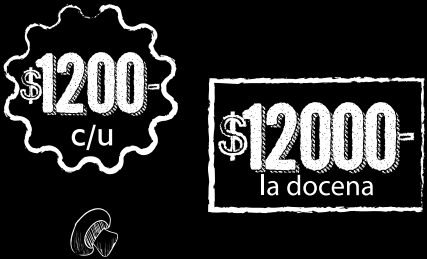
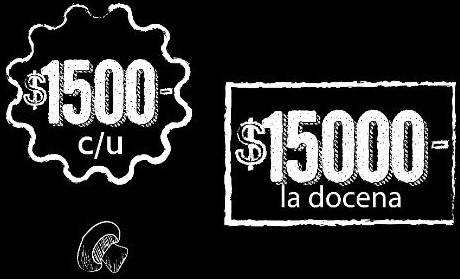
actu junio

diff --git a/src/data/Pizzas-data.jsx b/src/data/Pizzas-data.jsx
@@ -1,33 +1,33 @@
 
 const productos = [
-    { id: 1, nombre: 'Mozzarella', descripcion: 'Salsa de tomate y mozzarella', precio: 7500 },
+    { id: 1, nombre: 'Mozzarella', descripcion: 'Salsa de tomate y mozzarella', precio: 8500 },
     { id: 2, nombre: 'Doble Mozza', descripcion: 'Salsa de tomate y doble mozzarella',precio: 
-    10500 },
-    { id: 3, nombre: 'Mozza c/Jamón', descripcion: 'Salsa de tomate, mozzarella y jamón',precio: 9500 },
-    { id: 4, nombre: 'Mozza c/anchoas', descripcion: 'Salsa de tomate, mozzarella y anchoas', precio: 11500 },
-    { id: 5, nombre: 'Jamón y Morrón', descripcion: 'Salsa de tomate, mozzarella , jamón y morrón',precio: 12500 },
-    { id: 6, nombre: 'Napolitana', descripcion: 'Salsa de tomate, mozzarella y tomate natural',precio: 9500 },
-    { id: 7, nombre: 'Napolitana y Jamón', descripcion: 'Salsa de tomate, mozzarella, tomate natural y jamón', precio: 12500 },
-    { id: 8, nombre: 'Fugaza c/Queso', descripcion: 'cebolla y mozzarella',precio: 9000 },
-    { id: 9, nombre: 'Fugaza rellena', descripcion: 'cebolla, mozzarella y jamón',precio: 15000 },
-    { id: 10, nombre: 'Salchicha', descripcion: 'Salsa de tomate, mozzarella y salchicha', precio: 10500 },
-    { id: 11, nombre: 'Palmitos', descripcion: 'Salsa de tomate, mozzarella y palmito',precio: 13500 },
-    { id: 12, nombre: 'Palmitos c/Jamón', descripcion: 'Salsa de tomate, mozzarella, palmito y jamón',precio: 14500 },
-    { id: 13, nombre: 'Champiñones', descripcion: 'Salsa de tomate, mozzarella y champiñon',precio: 14500 },
-    { id: 14, nombre: 'Hawaiana', descripcion: 'Salsa de tomate, mozzarella, jamón y ananá ',precio: 15000 },
-    { id: 15, nombre: 'Piamontesa', descripcion: 'Salsa de tomate, mozzarella, calabresa, champiñones y panceta',precio: 17500 },
-    { id: 16, nombre: 'Primavera', descripcion: 'Salsa de tomate, mozzarella, tomate, huevo y jamón',precio: 14500 },
-    { id: 17, nombre: 'Huevo', descripcion: 'Salsa de tomate, mozzarella y huevo',precio: 9500 },
-    { id: 18, nombre: 'Huevo c/Jamón', descripcion: 'Salsa de tomate, mozzarella, jamón y huevo',precio: 12500 },
-    { id: 19, nombre: 'Provolone', descripcion: 'Salsa de tomate, mozzarella y provolone',precio: 10500 },
-    { id: 20, nombre: 'Roquefort', descripcion: 'Salsa de tomate, mozzarella y roquefort',precio: 10500 },
-    { id: 21, nombre: 'Calabresa', descripcion: 'Salsa de tomate, mozzarella y calabresa',precio: 10500 },
-    { id: 22, nombre: 'Calabresa Especial', descripcion: 'Salsa de tomate, mozzarella, calabresa y morrón',precio: 13500 },
-    { id: 23, nombre: 'Rúcula y Parmesano', descripcion: 'Salsa de tomate, mozzarella, rúcula natural y parmesano',precio: 12500 },
-    { id: 24, nombre: 'Rúcula y Provolone', descripcion: 'Salsa de tomate, mozzarella, rúcula natural  y provolone',precio: 14500 },
-    { id: 25, nombre: 'Rúcula y Jamón Crudo', descripcion: 'Salsa de tomate, mozzarella, rúcula natural  y jamón crudo',precio: 15500 },
-    { id: 26, nombre: 'Especial BLOCK', descripcion: 'Salsa de tomate, mozzarella, panceta, huevos fritos y papas fritas',precio: 17500 },
-    { id: 27, nombre: 'Faina (porción)', descripcion: '',precio: 1000 }
+    13500 },
+    { id: 3, nombre: 'Mozza c/Jamón', descripcion: 'Salsa de tomate, mozzarella y jamón',precio: 11500 },
+    { id: 4, nombre: 'Mozza c/anchoas', descripcion: 'Salsa de tomate, mozzarella y anchoas', precio: 13500 },
+    { id: 5, nombre: 'Jamón y Morrón', descripcion: 'Salsa de tomate, mozzarella , jamón y morrón',precio: 15500 },
+    { id: 6, nombre: 'Napolitana', descripcion: 'Salsa de tomate, mozzarella y tomate natural',precio: 11500 },
+    { id: 7, nombre: 'Napolitana y Jamón', descripcion: 'Salsa de tomate, mozzarella, tomate natural y jamón', precio: 15500 },
+    { id: 8, nombre: 'Fugaza c/Queso', descripcion: 'cebolla y mozzarella',precio: 11000 },
+    { id: 9, nombre: 'Fugaza rellena', descripcion: 'cebolla, mozzarella y jamón',precio: 18500 },
+    { id: 10, nombre: 'Salchicha', descripcion: 'Salsa de tomate, mozzarella y salchicha', precio: 12500 },
+    { id: 11, nombre: 'Palmitos', descripcion: 'Salsa de tomate, mozzarella y palmito',precio: 15500 },
+    { id: 12, nombre: 'Palmitos c/Jamón', descripcion: 'Salsa de tomate, mozzarella, palmito y jamón',precio: 18500 },
+    { id: 13, nombre: 'Champiñones', descripcion: 'Salsa de tomate, mozzarella y champiñon',precio: 16500 },
+    { id: 14, nombre: 'Hawaiana', descripcion: 'Salsa de tomate, mozzarella, jamón y ananá ',precio: 19500 },
+    { id: 15, nombre: 'Piamontesa', descripcion: 'Salsa de tomate, mozzarella, calabresa, champiñones y panceta',precio: 22500 },
+    { id: 16, nombre: 'Primavera', descripcion: 'Salsa de tomate, mozzarella, tomate, huevo y jamón',precio: 17500 },
+    { id: 17, nombre: 'Huevo', descripcion: 'Salsa de tomate, mozzarella y huevo',precio: 11500 },
+    { id: 18, nombre: 'Huevo c/Jamón', descripcion: 'Salsa de tomate, mozzarella, jamón y huevo',precio: 15500 },
+    { id: 19, nombre: 'Provolone', descripcion: 'Salsa de tomate, mozzarella y provolone',precio: 13500 },
+    { id: 20, nombre: 'Roquefort', descripcion: 'Salsa de tomate, mozzarella y roquefort',precio: 13500 },
+    { id: 21, nombre: 'Calabresa', descripcion: 'Salsa de tomate, mozzarella y calabresa',precio: 12500 },
+    { id: 22, nombre: 'Calabresa Especial', descripcion: 'Salsa de tomate, mozzarella, calabresa y morrón',precio: 16500 },
+    { id: 23, nombre: 'Rúcula y Parmesano', descripcion: 'Salsa de tomate, mozzarella, rúcula natural y parmesano',precio: 16500 },
+    { id: 24, nombre: 'Rúcula y Provolone', descripcion: 'Salsa de tomate, mozzarella, rúcula natural  y provolone',precio: 17500 },
+    { id: 25, nombre: 'Rúcula y Jamón Crudo', descripcion: 'Salsa de tomate, mozzarella, rúcula natural  y jamón crudo',precio: 18500 },
+    { id: 26, nombre: 'Especial BLOCK', descripcion: 'Salsa de tomate, mozzarella, panceta, huevos fritos y papas fritas',precio: 22500 },
+    { id: 27, nombre: 'Faina (porción)', descripcion: '',precio: 1250 }
 
   
 ]

diff --git a/src/data/Milanesas-data.jsx b/src/data/Milanesas-data.jsx
@@ -1,20 +1,20 @@
 
 const milanesasData = [
-    { id: 1, nombre: 'Milanesa', descripcion: 'Milanesas + papas fritas', precio: 12000 },
-    { id: 2, nombre: 'Napolitana', descripcion: 'Salsa de tomate, mozzarella y tomate natural + fritas',precio: 15000 },
-    { id: 3, nombre: 'Jamón y Morrón', descripcion: 'Salsa de tomate, mozzarella , jamón y morrón',precio: 17500 },
-    { id: 4, nombre: 'Jamón y Huevo', descripcion: 'Salsa de tomate, mozzarella, jamón y huevo duro + fritas', precio: 17500 },
-    { id: 5, nombre: 'Fugazza c/Queso', descripcion: 'Mozzarella y cebolla + fritas',precio: 15000 },
-    { id: 6, nombre: 'Primavera', descripcion: 'Salsa de tomate, mozzarella, tomate, huevo y jamón + fritas',precio: 18500 },
-    { id: 7, nombre: 'Provolone', descripcion: 'Salsa de tomate, mozzarella y provolone + fritas',precio: 16500 },
-    { id: 8, nombre: 'Roquefort', descripcion: 'Salsa de tomate, mozzarella y roquefort + fritas',precio: 16500 },
-    { id: 9, nombre: 'Hawaiana', descripcion: 'Salsa de tomate, mozzarella, jamón y ananá + fritas',precio: 18500 },
-    { id: 10, nombre: 'Calabresa', descripcion: 'Salsa de tomate, mozzarella y calabresa + fritas',precio: 16500 },
-    { id: 11, nombre: 'Rúcula y Jamón Crudo', descripcion: 'Salsa de tomate, mozzarella, rúcula natural  y jamón crudo + fritas',precio: 18500 },
-    { id: 12, nombre: 'Rúcula y Parmesano', descripcion: 'Salsa de tomate, mozzarella, rúcula natural y parmesano + fritas',precio: 17500 },
-    { id: 13, nombre: 'Mila BLOCK', descripcion: 'Salsa de tomate, mozzarella, panceta, huevos fritos y papas fritas + porción de fritas',precio: 20500 },
-    { id: 14, nombre: 'Porción de Fritas', descripcion: '(Para Compartir)',precio: 6500 },
-    { id: 15, nombre: 'Fritas', descripcion: '(Media Porción)',precio: 5000 }
+    { id: 1, nombre: 'Milanesa', descripcion: 'Milanesas + papas fritas', precio: 15000 },
+    { id: 2, nombre: 'Napolitana', descripcion: 'Salsa de tomate, mozzarella y tomate natural + fritas',precio: 19500 },
+    { id: 3, nombre: 'Jamón y Morrón', descripcion: 'Salsa de tomate, mozzarella , jamón y morrón',precio: 21500 },
+    { id: 4, nombre: 'Jamón y Huevo', descripcion: 'Salsa de tomate, mozzarella, jamón y huevo duro + fritas', precio: 21500 },
+    { id: 5, nombre: 'Fugazza c/Queso', descripcion: 'Mozzarella y cebolla + fritas',precio: 18500 },
+    { id: 6, nombre: 'Primavera', descripcion: 'Salsa de tomate, mozzarella, tomate, huevo y jamón + fritas',precio: 23500 },
+    { id: 7, nombre: 'Provolone', descripcion: 'Salsa de tomate, mozzarella y provolone + fritas',precio: 21500 },
+    { id: 8, nombre: 'Roquefort', descripcion: 'Salsa de tomate, mozzarella y roquefort + fritas',precio: 21500 },
+    { id: 9, nombre: 'Hawaiana', descripcion: 'Salsa de tomate, mozzarella, jamón y ananá + fritas',precio: 24500 },
+    { id: 10, nombre: 'Calabresa', descripcion: 'Salsa de tomate, mozzarella y calabresa + fritas',precio: 21500 },
+    { id: 11, nombre: 'Rúcula y Jamón Crudo', descripcion: 'Salsa de tomate, mozzarella, rúcula natural  y jamón crudo + fritas',precio: 24500 },
+    { id: 12, nombre: 'Rúcula y Parmesano', descripcion: 'Salsa de tomate, mozzarella, rúcula natural y parmesano + fritas',precio: 24500 },
+    { id: 13, nombre: 'Mila BLOCK', descripcion: 'Salsa de tomate, mozzarella, panceta, huevos fritos y papas fritas + porción de fritas',precio: 26500 },
+    { id: 14, nombre: 'Porción de Fritas', descripcion: '(Para Compartir)',precio: 8000 },
+    { id: 15, nombre: 'Fritas', descripcion: '(Media Porción)',precio: 6500 }
 
 ]
 

diff --git a/src/data/Sandwiches-data.jsx b/src/data/Sandwiches-data.jsx
@@ -1,7 +1,7 @@
 const sandwichesData = [
-    { id: 1, nombre: 'Sándwich de Milanesa simple', descripcion: '', precio: 6000 },
-    { id: 2, nombre: 'Sándwich de Milanesa', descripcion: '(2 ingredientes a elección) Lechuga - tomate - jamón y queso',precio: 7000 },
-    { id: 3, nombre: 'Sándwich de Milanesa', descripcion: 'Completo',precio: 8000 },
+    { id: 1, nombre: 'Sándwich de Milanesa simple', descripcion: '', precio: 7500 },
+    { id: 2, nombre: 'Sándwich de Milanesa', descripcion: '(2 ingredientes a elección) Lechuga - tomate - jamón y queso',precio: 9000 },
+    { id: 3, nombre: 'Sándwich de Milanesa', descripcion: 'Completo',precio: 10500 },
 ]
 
 export default sandwichesData

diff --git a/src/data/Papas-data.jsx b/src/data/Papas-data.jsx
@@ -1,7 +1,7 @@
 const papasData = [
-    { id: 1, nombre: 'Cheddar - Panceta y Verdeo', precio: 3500 },
-    { id: 2, nombre: 'Huevos Fritos (Dos)', precio: 2500 },
-    { id: 3, nombre: 'Provenzal', precio: 2000 },
+    { id: 1, nombre: 'Cheddar - Panceta y Verdeo', precio: 4500 },
+    { id: 2, nombre: 'Huevos Fritos (Dos)', precio: 3500 },
+    { id: 3, nombre: 'Provenzal', precio: 3000 },
 ]
 
 export default papasData
